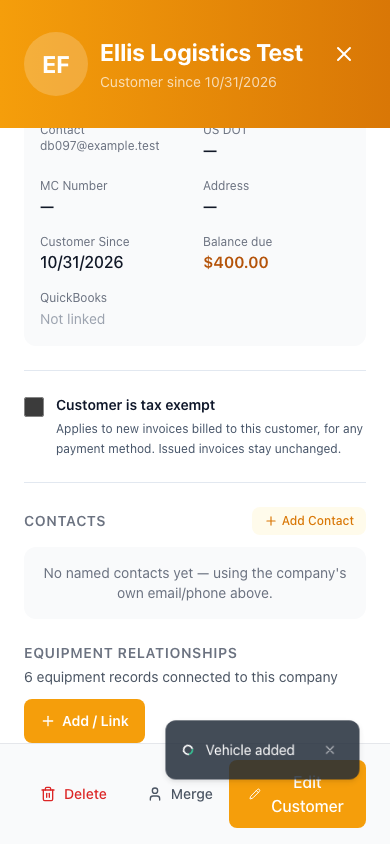
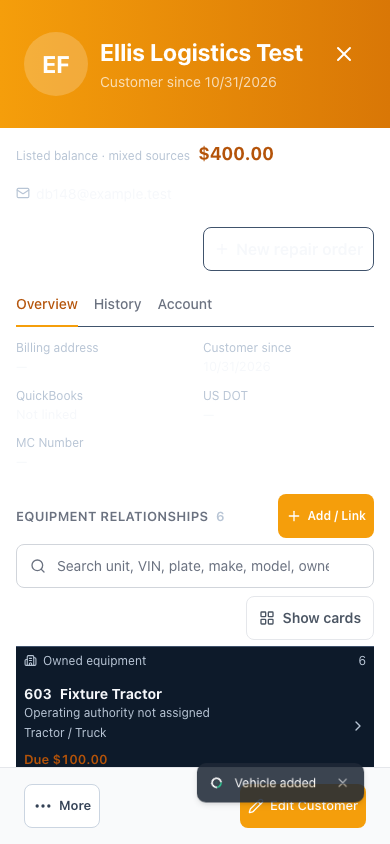
fix: align equipment workflow with current main and migration graph

diff --git a/frontend/src/features/customers/CustomerDetailPanel.tsx b/frontend/src/features/customers/CustomerDetailPanel.tsx
@@ -450,12 +450,12 @@ export default function CustomerDetailPanel({
                           aria-label={`Open ${vehicleDisplayLabel(vehicle)}${vehicle.unit_number ? ` · Unit ${vehicle.unit_number}` : ''}`}>
                           <div className="db-customer-trucks__identity">
                             <strong>{vehicle.unit_number && <span className="db-customer-trucks__unit">{vehicle.unit_number}</span>}{vehicleDisplayLabel(vehicle)}</strong>
-                            <span className="db-customer-trucks__relationship">{equipmentTypeLabel(vehicle.equipment_type)} · {vehicleRelationshipNote(vehicle, group.key)}</span>
+                            <span className="db-customer-trucks__relationship">{vehicleRelationshipNote(vehicle, group.key)}</span>
                             <span className="db-customer-trucks__identifiers">
                               {vehicle.vin && <span>VIN <span className="font-mono">{vehicle.vin}</span></span>}
                               {vehicle.license_plate && <span>Plate {vehicle.license_plate}</span>}
                               <span>{equipmentTypeLabel(vehicle.equipment_type)}</span>
-                            {vehicle.color && <span>{vehicle.color}</span>}
+                              {vehicle.color && <span>{vehicle.color}</span>}
                             </span>
                           </div>
                           <span className={`db-customer-trucks__balance ${balanceLabelClass(vehicle.balance)}`}>

diff --git a/output/equipment/browser_api.py b/output/equipment/browser_api.py
@@ -1,6 +1,6 @@
 """Loopback-only test API: real routes/JWT auth, disposable in-memory database."""
 import os
-os.environ.update(DATABASE_URL='sqlite+aiosqlite://', SECRET_KEY='db097-isolated-browser-test-key-32-characters', TWILIO_ACCOUNT_SID='AC00000000000000000000000000000000', TWILIO_AUTH_TOKEN='fixture', ENVIRONMENT='test')
+os.environ.update(DATABASE_URL='sqlite+aiosqlite://', SECRET_KEY='db148-isolated-browser-test-key-32-characters', TWILIO_ACCOUNT_SID='AC00000000000000000000000000000000', TWILIO_AUTH_TOKEN='fixture', ENVIRONMENT='test')
 import sys, asyncio, json
 from pathlib import Path
 from uuid import uuid4
@@ -23,7 +23,15 @@ from app.api.v1.endpoints import customers, vehicles
 import uvicorn
 
 async def main():
-    fixture = conftest._db_engine.__wrapped__()
+    import tempfile
+    temporary = tempfile.TemporaryDirectory(prefix='db148-browser-')
+    class TempFactory:
+        def mktemp(self, name):
+            folder = Path(temporary.name) / name
+            folder.mkdir()
+            return folder
+    schema = conftest._sqlite_schema_template.__wrapped__(TempFactory())
+    fixture = conftest._db_engine.__wrapped__(next(schema))
     engine = await fixture.__anext__()
     factory = async_sessionmaker(engine, expire_on_commit=False)
     app = FastAPI()
@@ -34,7 +42,7 @@ async def main():
     limiter.enabled = False
     app.include_router(api_router, prefix='/api/v1')
     @app.get('/health')
-    def health(): return {'status':'ok','fixture':'DB097','source':str(root)}
+    def health(): return {'status':'ok','fixture':'DB148','source':str(root)}
     async def db():
         async with factory() as session: yield session
     app.dependency_overrides[get_db] = db
@@ -44,9 +52,9 @@ async def main():
     customers.sync_vehicle_nhtsa_snapshot = no_decode
     vehicles.sync_vehicle_nhtsa_snapshot = no_decode
     async with factory() as session:
-        tenant = Tenant(id=uuid4(), name='DB097 Isolated Test Shop', slug='db097-browser', labor_rate=Decimal('100'))
-        company = Customer(id=uuid4(), tenant_id=tenant.id, first_name='Ellis', last_name='Fixture', company_name='Ellis Logistics Test', email='db097@example.test')
-        owner = User(id=uuid4(), tenant_id=tenant.id, email='owner-db097@example.test', first_name='Test', last_name='Owner', hashed_password='unused', role=UserRole.GARAGE_OWNER, is_active=True, is_verified=True)
+        tenant = Tenant(id=uuid4(), name='DB148 Isolated Test Shop', slug='db148-browser', labor_rate=Decimal('100'))
+        company = Customer(id=uuid4(), tenant_id=tenant.id, first_name='Ellis', last_name='Fixture', company_name='Ellis Logistics Test', email='db148@example.test')
+        owner = User(id=uuid4(), tenant_id=tenant.id, email='owner-db148@example.test', first_name='Test', last_name='Owner', hashed_password='unused', role=UserRole.GARAGE_OWNER, is_active=True, is_verified=True)
         session.add_all([tenant, company, owner]); await session.flush()
         assets = []
         for typ, unit in [('tractor','603'),('tractor','609'),('trailer','T1003130'),('trailer','T1003142')]:
@@ -67,4 +75,6 @@ async def main():
         await uvicorn.Server(uvicorn.Config(app, host='127.0.0.1',port=8017,log_level='warning')).serve()
     finally:
         await fixture.aclose()
+        schema.close()
+        temporary.cleanup()
 asyncio.run(main())

diff --git a/output/equipment/rehearse_migration.py b/output/equipment/rehearse_migration.py
@@ -10,13 +10,13 @@ from alembic.migration import MigrationContext
 from alembic.operations import Operations
 
 root = Path(__file__).resolve().parents[2]
-spec = importlib.util.spec_from_file_location('equipment_migration', root / 'backend/alembic/versions/157_vehicle_equipment_type.py')
+spec = importlib.util.spec_from_file_location('equipment_migration', root / 'backend/alembic/versions/193_vehicle_equipment_type.py')
 migration = importlib.util.module_from_spec(spec)
 spec.loader.exec_module(migration)
 
 async def main():
     engine = create_async_engine('postgresql+asyncpg://dieselbridge:dieselbridge_dev@127.0.0.1:5432/truckpitstop')
-    schema = 'db097_rehearsal_' + uuid4().hex
+    schema = 'db148_rehearsal_' + uuid4().hex
     async with engine.connect() as conn:
         transaction = await conn.begin()
         try:

diff --git a/backend/alembic/versions/193_vehicle_equipment_type.py b/backend/alembic/versions/193_vehicle_equipment_type.py
@@ -2,8 +2,8 @@
 from alembic import op
 import sqlalchemy as sa
 
-revision = "157_vehicle_equipment_type"
-down_revision = "156_historical_invoice_export"
+revision = "193_vehicle_equipment_type"
+down_revision = "192_vehicle_issues"
 branch_labels = None
 depends_on = None
 

diff --git a/docs/verification/DB148_COMPANY_EQUIPMENT_2026-10-31.md b/docs/verification/DB148_COMPANY_EQUIPMENT_2026-10-31.md
@@ -1,4 +1,4 @@
-# DB-097 local implementation evidence
+# DB-148 local implementation evidence
 
 Accountable owner: Backend & Integrations. Architecture reviewed the contract; independent reviewer `equipment_review` issued source-level QA/security GO, not runtime/release GO.
 
@@ -17,7 +17,7 @@ User evidence: Aufine invoice 000023 belongs to trailer T1003130, not tractor609
 - Existing vehicle identity/merge regressions:11/11.
 - Existing company workstation:15/15; new equipment modal create/edit:2/2.
 - Production frontend build, TypeScript noEmit and changed-source ESLint pass.
-- PostgreSQL15 rehearsal: actual migration157 applied to isolated populated vehicles schema; unknown defaults preserve both tractor/trailer unit IDs, typed writes accepted, invalid/null rejected, downgrade/re-upgrade preserve row identities/count. Entire transaction rolled back. Rehearsal source:output/equipment/rehearse_migration.py. This tests the new migration against a minimal populated target, not the full historical migration chain.
+- PostgreSQL15 rehearsal: actual migration193 applied to isolated populated vehicles schema; unknown defaults preserve both tractor/trailer unit IDs, typed writes accepted, invalid/null rejected, downgrade/re-upgrade preserve row identities/count. Entire transaction rolled back. Rehearsal source:output/equipment/rehearse_migration.py. This tests the new migration against a minimal populated target, not the full historical migration chain.
 - `git diff --check` pass.
 
 ## Signed-in browser acceptance
@@ -28,7 +28,7 @@ On both sizes: select the test company; open T1003130; see only its maintenance 
 
 Visual review found the preexisting VIN Decode control clipped at mobile size; the input now has min-w-0 and button shrink-0. Final screenshots show contained controls and no page or VIN-row horizontal overflow. Add-mode copy now says New equipment and Link/manage equipment.
 
-Evidence: output/equipment/browser-results.json; desktop/mobile-create-equipment.png; desktop/mobile-edit-trailer.png; desktop/mobile-company-equipment.png; desktop/mobile-repair-workspace.png. Repeatable fixture/API and browser drivers: browser_api.py, browser_acceptance.cjs; test Vite config frontend/vite.db097.config.ts. Generated browser_fixture.json contains a disposable JWT and must never be committed/published. Browser drivers require installed e2e dependencies; no real configuration/secrets are copied.
+Evidence: output/equipment/browser-results.json; desktop/mobile-create-equipment.png; desktop/mobile-edit-trailer.png; desktop/mobile-company-equipment.png; desktop/mobile-repair-workspace.png. Repeatable fixture/API and browser drivers: browser_api.py, browser_acceptance.cjs; test Vite config frontend/vite.db148.config.ts. Generated browser_fixture.json contains a disposable JWT and must never be committed/published. Browser drivers require installed e2e dependencies; no real configuration/secrets are copied.
 
 Runtime receipt: base6336ef16 with the recorded HMR-served VIN/copy diff, branch codex/company-equipment-types. Test frontend PID99367 cwd frontend under this checkout; test API first PID99350, then PID2514, restarted only after its exit to register the existing domain handler. Readiness source root matched this checkout. Existing5173 belonged to machined-sidebar and8000 to Docker; neither was restarted or changed. Test runtime was aligned and browser-verified during acceptance, then shut down; the disposable database and JWT fixture were discarded.
 
@@ -36,10 +36,10 @@ Independent equipment_review source and browser-evidence QA/security GO, includi
 
 ## EDG contract coordination
 
-Architecture cross-checked the active EDG task's docs/DB094_EQUIPMENT_CONTRACT_HANDOFF.md and services dieselbridge_financial.py/dieselbridge_equipment.py. EDG already accepts trucks/trailers via VIN or reviewed equipment allocation. DBN company equipment types need no receiver change while v2 exact keys/revisions/hashes remain unchanged. Future exported fields need a separately versioned contract; no fields were added by this PR. See docs/contracts/db097-company-equipment.md.
+Architecture cross-checked the active EDG task's docs/DB094_EQUIPMENT_CONTRACT_HANDOFF.md and services dieselbridge_financial.py/dieselbridge_equipment.py. EDG already accepts trucks/trailers via VIN or reviewed equipment allocation. DBN company equipment types need no receiver change while v2 exact keys/revisions/hashes remain unchanged. Future exported fields need a separately versioned contract; no fields were added by this PR. See docs/contracts/db148-company-equipment.md.
 
 Changing source vehicle/VIN requires fresh attribution review against the authorized revision; booked financial effects require explicit reclassification. The user-confirmed Aufine000023→T1003130 fact is recorded without production correction, historical merging, changed billing access, or assumptions about price/date/payment/funding.
 
 ## Remaining gates
 
-Local PR draft prepared at output/equipment/pr-draft.md. Per explicit instruction, no branch push or PR publication. Protected CI, merge, and authorized release remain pending. No production migration, deployment or source-data correction occurred.
+The user explicitly approved PR publication. Replayed only the two equipment commits onto GitHub main9dea1f1a, excluding unrelated local inventory work. The prior provisional DB-097 ID was already assigned on current main, so this feature is DB-148; its migration193 now follows192. Preserved current main compact customer layout and refreshed browser screenshots/assertions. Current-main focused backend31/31, frontend30/30, build/lint, linear migration graph and PostgreSQL rehearsal pass. Publication/required-check evidence is recorded on the board; merge and release are not authorized. No production migration, deployment or source-data correction occurred.

diff --git a/docs/PROJECT_BOARD.md b/docs/PROJECT_BOARD.md
@@ -1,4 +1,4 @@
-> **DB-097 company equipment types / LOCAL IMPLEMENTATION VERIFIED — RELEASE PENDING (2026-10-31), Backend & Integrations accountable:** User requests separate tractors, trailers and other equipment per company with repair/invoice association. High-risk lane (schema migration). Acceptance: typed add/edit/list, unclassified legacy default, omit-preserving updates, invalid/null rejection, same-company mixed assets, tenant denial, no cross-type merges, existing vehicle_id/invoice and bill-to scopes preserved. Architecture reviewed additive contract; no production classification or invoice reassignment. User identifies Aufine invoice 000023 as T1003130, recorded as reconciliation evidence only. Branch codex/company-equipment-types, isolated local clone. Independent source and browser-evidence QA/Security GO; equipment+export13/13, vehicle identity/merge11/11, company workstation15/15, new modal2/2; build, TypeScript and changed-source lint passed. PostgreSQL15 populated schema upgrade/constraints/downgrade/re-upgrade passed in rolled-back isolated transaction. Real-JWT isolated API browser acceptance passes desktop1440 and mobile390 for create/edit/type preservation, trailer-only history and four invoice/RO links, with no runtime errors. History→RO workspace→invoice visible on both sizes; mobile VIN control clipping corrected and reverified. Local PR draft prepared; explicit approval required before publication. Protected CI and approved release remain pending. Export v2 shape is unchanged after EDG strict-consumer compatibility finding. Architecture reconciled current EDG v2: reviewed truck/trailer allocation already supported; DBN types need no receiver change while strict export bytes/hash vocabulary remain unchanged. Source identity corrections require fresh review.
+> **DB-148 company equipment types / LOCAL IMPLEMENTATION VERIFIED — RELEASE PENDING (2026-10-31), Backend & Integrations accountable:** User requests separate tractors, trailers and other equipment per company with repair/invoice association. High-risk lane (schema migration). Acceptance: typed add/edit/list, unclassified legacy default, omit-preserving updates, invalid/null rejection, same-company mixed assets, tenant denial, no cross-type merges, existing vehicle_id/invoice and bill-to scopes preserved. Architecture reviewed additive contract; no production classification or invoice reassignment. User identifies Aufine invoice 000023 as T1003130, recorded as reconciliation evidence only. Branch codex/company-equipment-types, isolated local clone. Independent source and browser-evidence QA/Security GO; current-main backend31/31 and frontend30/30; build, TypeScript and changed-source lint passed. PostgreSQL15 populated schema upgrade/constraints/downgrade/re-upgrade passed in rolled-back isolated transaction. Real-JWT isolated API browser acceptance passes desktop1440 and mobile390 for create/edit/type preservation, trailer-only history and four invoice/RO links, with no runtime errors. History→RO workspace→invoice visible on both sizes; mobile VIN control clipping corrected and reverified. Publication approved by user; refreshed onto current main9dea1f1a, migration193 follows192, current compact customer layout preserved. Required GitHub checks next; merge/deployment not authorized. Original provisional ID DB-097 was already assigned on current main; this equipment outcome is DB-148. Protected CI and approved release remain pending. Export v2 shape is unchanged after EDG strict-consumer compatibility finding. Architecture reconciled current EDG v2: reviewed truck/trailer allocation already supported; DBN types need no receiver change while strict export bytes/hash vocabulary remain unchanged. Source identity corrections require fresh review.
 
 > **DB-042 Four-tab density consistency / LOCAL QA PASSED, REVIEW (2026-10-30 EDT), Frontend & UX:** Overview27% shorter and Ordering18% shorter in the437px fixture inspector; compact facts/source forms/purchasing history.61 tests, lint/build and signed-in desktop/390px all-four-tab validation/focus/preparation/filter/no-overflow pass. [Receipt](verification/DB042_FOUR_TAB_DENSITY_2026-10-30.md). Existing contracts unchanged. Protected CI/release pending.
 

diff --git a/output/equipment/pr-draft.md b/output/equipment/pr-draft.md
@@ -3,22 +3,22 @@ Title: Support company equipment types and separate trailer maintenance
 Target repository: mecaniser/truck-pit-stop
 Base: main
 Head: codex/company-equipment-types
-Status: LOCAL DRAFT ONLY — not pushed or published
+Status: User approved PR publication; merge/deployment not authorized
 
 Companies currently have unclassified vehicle records and truck-oriented controls, so operators cannot explicitly distinguish a trailer from a tractor when maintaining each asset. Add Tractor / Truck, Trailer, Other equipment and Unclassified to company equipment creation and editing, and show/search the type in company lists. Repairs and invoices retain their existing asset-specific vehicle_id links.
 
-Existing rows and omitted legacy requests default to Unclassified. Omitted updates preserve the value; null/invalid types are rejected. Merges require matching classifications. Migration157 adds only the field, default and check; it performs no historical classification or financial reassignment. The mobile VIN row now fits the Decode control within the form.
+Existing rows and omitted legacy requests default to Unclassified. Omitted updates preserve the value; null/invalid types are rejected. Merges require matching classifications. Migration193 adds only the field, default and check; it performs no historical classification or financial reassignment. The mobile VIN row now fits the Decode control within the form.
 
 The current EDG v2 financial manifest remains unchanged. Architecture confirmed EDG already handles truck/trailer VIN matching and reviewed equipment allocation; no receiver change is required here. Future exported fields need a versioned contract. Correcting a source vehicle/VIN requires fresh reviewed attribution; imported costs require explicit financial reclassification. The confirmed Aufine invoice000023 → T1003130 correction is separate from this feature.
 
-Validation:
-- 24 focused backend tests pass: equipment5, identity/merge11, invoice export8.
-- 17 frontend tests pass: equipment modal2 and company workstation15.
+Validation (refreshed onto main9dea1f1a):
+- 31 focused backend equipment, vehicle identity/merge and invoice-export tests pass on current main.
+- 30 frontend equipment-modal and company-workstation tests pass on current main.
 - Production build, TypeScript and changed-source ESLint pass.
 - PostgreSQL15 migration rehearsal passed defaults, typed writes, invalid/null constraints and downgrade/re-upgrade in a rolled-back isolated schema.
 - Signed-in browser acceptance against this checkout and a disposable in-memory API passed at1440×1000 and390×844: create trailer/other equipment, edit trailer preserving type/unit, distinct trailer history, actual repair-workspace invoice display, four real repair/invoice API links, no horizontal overflow or page errors.
 - Independent source and browser-evidence QA/security passed.
 
-Evidence: docs/verification/DB097_COMPANY_EQUIPMENT_2026-10-31.md and output/equipment/browser-results.json.
+Evidence: docs/verification/DB148_COMPANY_EQUIPMENT_2026-10-31.md and output/equipment/browser-results.json.
 
-Release: no production migration, data correction, deployment, branch push or PR publication performed. Publish only after explicit approval; protected CI, merge and release remain separate gates.
+Release: PR publication explicitly approved; merge/deployment and production data changes are not authorized. Protected CI remains the next gate. No production migration or data correction performed.

diff --git a/docs/contracts/db148-company-equipment.md b/docs/contracts/db148-company-equipment.md
@@ -1,4 +1,4 @@
-# DB-097 company equipment types
+# DB-148 company equipment types
 
 Owner: Backend & Integrations. Architecture reviewed; high-risk schema lane.
 
@@ -15,6 +15,6 @@ Architecture cross-checked EDG `dieselbridge_financial.validate_manifest` (exact
 Changing an RO's source vehicle ID or VIN invalidates prior reviewed attribution and requires fresh review against the authorized revision. Imported costs require explicit financial reclassification; no silent reassignment or reserve/accounting rewrite occurs. Repaired equipment identity remains separate from its towing tractor. The owner-confirmed Aufine invoice000023 → T1003130 correction is a separate audited source-data action, not part of this schema/UI change. This equipment fact establishes no price, payment, funding, date or billing-access claim. Mixed-equipment invoices require line-specific amounts/identities before splitting.
 
 
-Migration157 adds the nonnull column/default/check only. No production migration executed. Rehearse PostgreSQL upgrade, populated legacy rows, constraints, downgrade (which discards classifications), and re-upgrade before release. Downgrade requires preserving classifications for later restoration.
+Migration193 adds the nonnull column/default/check only. No production migration executed. Rehearse PostgreSQL upgrade, populated legacy rows, constraints, downgrade (which discards classifications), and re-upgrade before release. Downgrade requires preserving classifications for later restoration.
 
 Acceptance: typed CRUD, legacy/omitted/null/invalid cases, same-company tractors and trailers, distinct repair/invoice links, cross-tenant denial, cross-type merge rejection, unchanged export shape/revision parity; independent QA/Security, signed-in desktop/mobile runtime, protected PR CI and approved release required.
